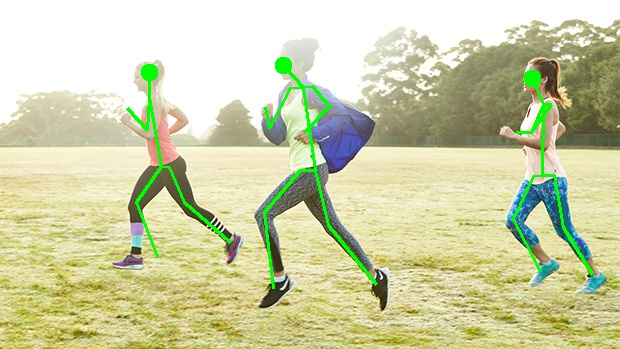
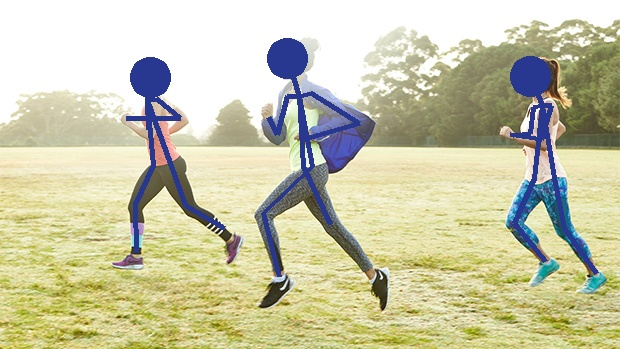
separate draw_pose & get_people_pose

diff --git a/Pose_estimate/utils/pose_ftns.py b/Pose_estimate/utils/pose_ftns.py
@@ -4,56 +4,78 @@ import cv2
 
 from PIL import Image, ImageDraw
 
+    
+def get_people_pose(boxes, labels):
+    labels = np.reshape(labels, (len(labels), 1))
+    data = np.concatenate((boxes, labels), axis=1)
+    people_li = data[data[:,4] == 18]
+    pose_li = data[data[:,4] < 18]
+    pose_data = np.zeros((len(pose_li), 3))
+    pose_data[:,0] = (pose_li[:,0] + pose_li[:,2]) / 2
+    pose_data[:,1] = (pose_li[:,1] + pose_li[:,3]) / 2
+    pose_data[:,2] = pose_li[:,4]
+    
+    people_body_li=[]
+    for i in range(len(people_li)):
+        pose_dict = {}
+        bound = 5
+        body_li = pose_data[pose_data[:,0] > people_li[i,0] + bound]
+        body_li = body_li[body_li[:, 1] > people_li[i, 1] + bound]
+        body_li = body_li[body_li[:, 0] < people_li[i, 2] - bound]
+        body_li = body_li[body_li[:, 1] < people_li[i, 3] - bound]
 
-def draw_arm(img, pose_dict, line_color, side):
+        for j in range(len(body_li)):
+            if body_li[j,2] not in list(pose_dict.keys()):
+                pose_dict[int(body_li[j,2])] = (int(body_li[j,0]), int(body_li[j,1]))
+        people_body_li.append(pose_dict)
+        
+    return people_body_li
+    
+
+
+def draw_arm(img, pose_dict, line_color, side, w):
     draw = ImageDraw.Draw(img)
     ankle_li = list(pose_dict.keys())
     if side == "left":
         if 2 in ankle_li:
-            draw.line((pose_dict[2][0], pose_dict[2][1], pose_dict[1][0], pose_dict[1][1]), fill=line_color, width=3)
+            draw.line((pose_dict[2][0], pose_dict[2][1], pose_dict[1][0], pose_dict[1][1]), fill=line_color, width=w)
             if 3 in ankle_li:
                 draw.line((pose_dict[3][0], pose_dict[3][1], pose_dict[2][0], pose_dict[2][1]), fill=line_color,
-                          width=3)
+                          width=w)
                 if 4 in ankle_li:
                     draw.line((pose_dict[4][0], pose_dict[4][1], pose_dict[3][0], pose_dict[3][1]), fill=line_color,
-                              width=3)
+                              width=w)
     elif side == "right":
         if 5 in ankle_li:
             draw.line((pose_dict[5][0], pose_dict[5][1], pose_dict[1][0], pose_dict[1][1]), fill=line_color,
-                      width=3)
+                      width=w)
             if 6 in ankle_li:
                 draw.line((pose_dict[6][0], pose_dict[6][1], pose_dict[5][0], pose_dict[5][1]), fill=line_color,
-                          width=3)
+                          width=w)
                 if 7 in ankle_li:
                     draw.line((pose_dict[7][0], pose_dict[7][1], pose_dict[6][0], pose_dict[6][1]),
                               fill=line_color,
-                              width=3)
+                              width=w)
     else:
         print("wrong input")
     return img
 
-def draw_leg(img, pose_dict, line_color, side, r_foot_x, r_foot_y, r_foot_count , l_foot_x, l_foot_y, l_foot_count):
+def draw_leg(img, pose_dict, line_color, side, w):
     draw = ImageDraw.Draw(img)
     ankle_li = list(pose_dict.keys())
     if side == "left":
         if 9 in ankle_li:
-            draw.line((pose_dict[9][0], pose_dict[9][1], pose_dict[8][0], pose_dict[8][1]), fill=line_color, width=3)
+            draw.line((pose_dict[9][0], pose_dict[9][1], pose_dict[8][0], pose_dict[8][1]), fill=line_color, width=w)
             if 10 in ankle_li:
                 draw.line((pose_dict[10][0], pose_dict[10][1], pose_dict[9][0], pose_dict[9][1]), fill=line_color,
-                          width=3)
-                if l_foot_count != 0:
-                    draw.line((l_foot_x, l_foot_y, pose_dict[10][0], pose_dict[10][1]), fill=line_color,
-                              width=3)
+                          width=w)
 
     elif side == "right":
         if 12 in ankle_li:
-            draw.line((pose_dict[12][0], pose_dict[12][1], pose_dict[8][0], pose_dict[8][1]), fill=line_color, width=3)
+            draw.line((pose_dict[12][0], pose_dict[12][1], pose_dict[11][0], pose_dict[11][1]), fill=line_color, width=w)
             if 13 in ankle_li:
                 draw.line((pose_dict[13][0], pose_dict[13][1], pose_dict[12][0], pose_dict[12][1]), fill=line_color,
-                          width=3)
-                if r_foot_count != 0:
-                    draw.line((r_foot_x, r_foot_y, pose_dict[13][0], pose_dict[13][1]), fill=line_color,
-                              width=3)
+                          width=w)
 
     else:
         print("wrong input")
@@ -75,109 +97,57 @@ def make_part(set, pose_dict):
     return x, y, count
 
 def line_body(img, pose_dict):
-    line_color = (0,255,0)
+    line_color = (145,56,40)
+    w = 5
     draw = ImageDraw.Draw(img)
     ankle_li = list(pose_dict.keys())
+
     if 1 not in ankle_li:
         return img
     else:
         # make head
-        head_x, head_y, count = make_part((0, 15, 16, 17, 18), pose_dict)
+        head_x, head_y, count = make_part((0, 14, 15, 16, 17), pose_dict)
         if count != 0:
-            draw.line((head_x, head_y, pose_dict[1][0], pose_dict[1][1]), fill=line_color, width=3)
-            draw.ellipse((head_x - 8, head_y - 8, head_x + 8, head_y + 8), fill=(0,255,0))
+            r = 20
+            draw.line((head_x, head_y, pose_dict[1][0], pose_dict[1][1]), fill=line_color, width=w)
+            draw.ellipse((head_x - r, head_y - r, head_x + r, head_y + r), fill=line_color)
+        if 2 in ankle_li:
+            # left side
+            img = draw_arm(img, pose_dict, line_color, "left", w)
 
-        # left side
-        img = draw_arm(img, pose_dict, line_color, side = "left")
+        if 5 in ankle_li:
+            # right side
+            img = draw_arm(img, pose_dict, line_color, "right", w)
 
-        # right side
-        img = draw_arm(img, pose_dict, line_color, side="right")
-
-        # make r_foot
-        r_foot_x, r_foot_y, r_foot_count = make_part((14,19,20,21), pose_dict)
-
-        # make l_foot
-        l_foot_x, l_foot_y, l_foot_count = make_part((11,22,23,24), pose_dict)
-
-        # draw backbone
-        if 8 not in ankle_li:
-            # make center hip
-            m_hip_x, m_hip_y, backbone_count = make_part((9, 12), pose_dict)
-            if backbone_count != 0:
-                draw.line((m_hip_x, m_hip_y, pose_dict[1][0], pose_dict[1][1]), fill=line_color, width=3)
-
-                if 9 in ankle_li:
-                    draw.line((pose_dict[9][0], pose_dict[9][1], m_hip_x, m_hip_y), fill=line_color,
-                              width=3)
-                    if 10 in ankle_li:
-                        draw.line((pose_dict[10][0], pose_dict[10][1], pose_dict[9][0], pose_dict[9][1]),
-                                  fill=line_color,
-                                  width=3)
-                        if l_foot_count != 0:
-                            draw.line((l_foot_x, l_foot_y, pose_dict[10][0], pose_dict[10][1]), fill=line_color,
-                                      width=3)
-
-                if 12 in ankle_li:
-                    draw.line((pose_dict[12][0], pose_dict[12][1], m_hip_x, m_hip_y), fill=line_color,
-                              width=3)
-                    if 13 in ankle_li:
-                        draw.line((pose_dict[13][0], pose_dict[13][1], pose_dict[12][0], pose_dict[12][1]),
-                                  fill=line_color,
-                                  width=3)
-                        if r_foot_count != 0:
-                            draw.line((r_foot_x, r_foot_y, pose_dict[10][0], pose_dict[10][1]), fill=line_color,
-                                      width=3)
-
-
-        else:
-            draw.line((pose_dict[8][0], pose_dict[8][1], pose_dict[1][0], pose_dict[1][1]), fill=line_color, width=3)
+        if 8 in ankle_li:
+            draw.line((pose_dict[8][0], pose_dict[8][1], pose_dict[1][0], pose_dict[1][1]), fill=line_color, width=w)
 
             # left side
-            img = draw_leg(img, pose_dict, line_color, "left", r_foot_x, r_foot_y, r_foot_count , l_foot_x, l_foot_y, l_foot_count)
+            img = draw_leg(img, pose_dict, line_color, "left", w)
+
+        if 11 in ankle_li:
+            draw.line((pose_dict[11][0], pose_dict[11][1], pose_dict[1][0], pose_dict[1][1]), fill=line_color, width=w)
 
             # right side
-            img = draw_leg(img, pose_dict, line_color, "right", r_foot_x, r_foot_y, r_foot_count , l_foot_x, l_foot_y, l_foot_count)
+            img = draw_leg(img, pose_dict, line_color, "right", w)
 
         return img
 
-def draw_body(img_root, boxes, labels):
-    img = Image.open(img_root).convert('RGBA')
+def draw_body(img_root, people_pose):
+    img = Image.fromarray(img_root)
     draw = ImageDraw.Draw(img)
-
-    labels = np.reshape(labels, (len(labels), 1))
-    data = np.concatenate((boxes, labels), axis=1)
-
-    people_li = data[data[:,4] == 27]
-
-    pose_li = data[data[:,4] < 25]
-    pose_data = np.zeros((len(pose_li), 3))
-    pose_data[:,0] = (pose_li[:,0] + pose_li[:,2]) / 2
-    pose_data[:,1] = (pose_li[:,1] + pose_li[:,3]) / 2
-    pose_data[:,2] = pose_li[:,4]
-
-    for i in range(len(people_li)):
-        pose_dict = {}
-
-        bound = 5
-        body_li = pose_data[pose_data[:,0] > people_li[i,0] + bound]
-        body_li = body_li[body_li[:, 1] > people_li[i, 1] + bound]
-        body_li = body_li[body_li[:, 0] < people_li[i, 2] - bound]
-        body_li = body_li[body_li[:, 1] < people_li[i, 3] - bound]
-
-        for j in range(len(body_li)):
-            if body_li[j,2] not in list(pose_dict.keys()):
-                pose_dict[int(body_li[j,2])] = (int(body_li[j,0]), int(body_li[j,1]))
-
-        ankle_li = list(pose_dict.keys())
 
         # draw point
         # for k in range(25):
         #     if k in ankle_li:
         #         r = 2
         #         draw.ellipse((pose_dict[k][0] - r, pose_dict[k][1] - r, pose_dict[k][0] + r, pose_dict[k][1] + r), fill=(255,0,0,0))
-
+    print(len(people_pose))
+    for pose_dict in people_pose:
+        print(pose_dict)
         img = line_body(img, pose_dict)
 
-    img = cv2.cvtColor(np.array(img), cv2.COLOR_RGB2BGR)
+    # img = cv2.cvtColor(np.array(img), cv2.COLOR_RGB2BGR)
+    img = np.array(img)
 
     return img

diff --git a/Pose_estimate/test_PE.py b/Pose_estimate/test_PE.py
@@ -13,7 +13,7 @@ from utils.nms_utils import gpu_nms
 from utils.plot_utils import get_color_table
 from utils.plot_utils import plot_one_box
 from utils.data_aug import letterbox_resize
-from utils.pose_ftns import draw_body
+from utils.pose_ftns import draw_body, get_people_pose
 
 from model import yolov3
 
@@ -73,7 +73,7 @@ with tf.Session() as sess:
             img = img[np.newaxis, :] / 255.
 
             boxes_, scores_, labels_ = sess.run([boxes, scores, labels], feed_dict={input_data: img})
-
+            
             # rescale the coordinates to the original image
             if args.letterbox_resize:
                 boxes_[:, [0, 2]] = (boxes_[:, [0, 2]] - dw) / resize_ratio
@@ -81,15 +81,32 @@ with tf.Session() as sess:
             else:
                 boxes_[:, [0, 2]] *= (width_ori/float(args.new_size[0]))
                 boxes_[:, [1, 3]] *= (height_ori/float(args.new_size[1]))
-
+            
+            people_pose=get_people_pose(boxes_, labels_) # list-dict
+            
+            # normalize()
+            # check_speed()
+            # check_wrist()
+        
+            # check critical point
+            '''
+            if i%T == CT
+                check_knee()  
+            '''
+            print(img_root)
             # draw body
-            img_ori = draw_body(img_root, boxes_, labels_)
-
+            img_ori = draw_body(img_ori, people_pose)
+            
             # draw yolo box
-            for i in range(len(boxes_)):
-                 x0, y0, x1, y1 = boxes_[i]
-                 plot_one_box(img_ori, [x0, y0, x1, y1], label=args.classes[labels_[i]] + ', {:.2f}%'.format(scores_[i] * 100), color=color_table[labels_[i]])
-
+            #for i in range(len(boxes_)):
             cv2.imshow('Detection result', img_ori)
             cv2.imwrite('detection_result.jpg', img_ori)
             cv2.waitKey(0)
+                    '''
+            print("rk"+args.classes[labels_[9]]+"\n")
+            print("lk"+args.classes[labels_[12]])
+            rkx0, rky0, rkx1, rky1 = boxes_[9]
+            lkx0, lky0, lkx1, lky1 = boxes_[12]
+            plot_one_box(img_ori, [rkx0, rky0, rkx1, rky1], label=args.classes[labels_[9]] + ', {:.2f}%'.format(scores_[9] * 100), color=color_table[labels_[9]])
+            plot_one_box(img_ori, [lkx0, lky0, lkx1, lky1], label=args.classes[labels_[12]] + ', {:.2f}%'.format(scores_[12] * 100), color=color_table[labels_[12]])
+            '''
